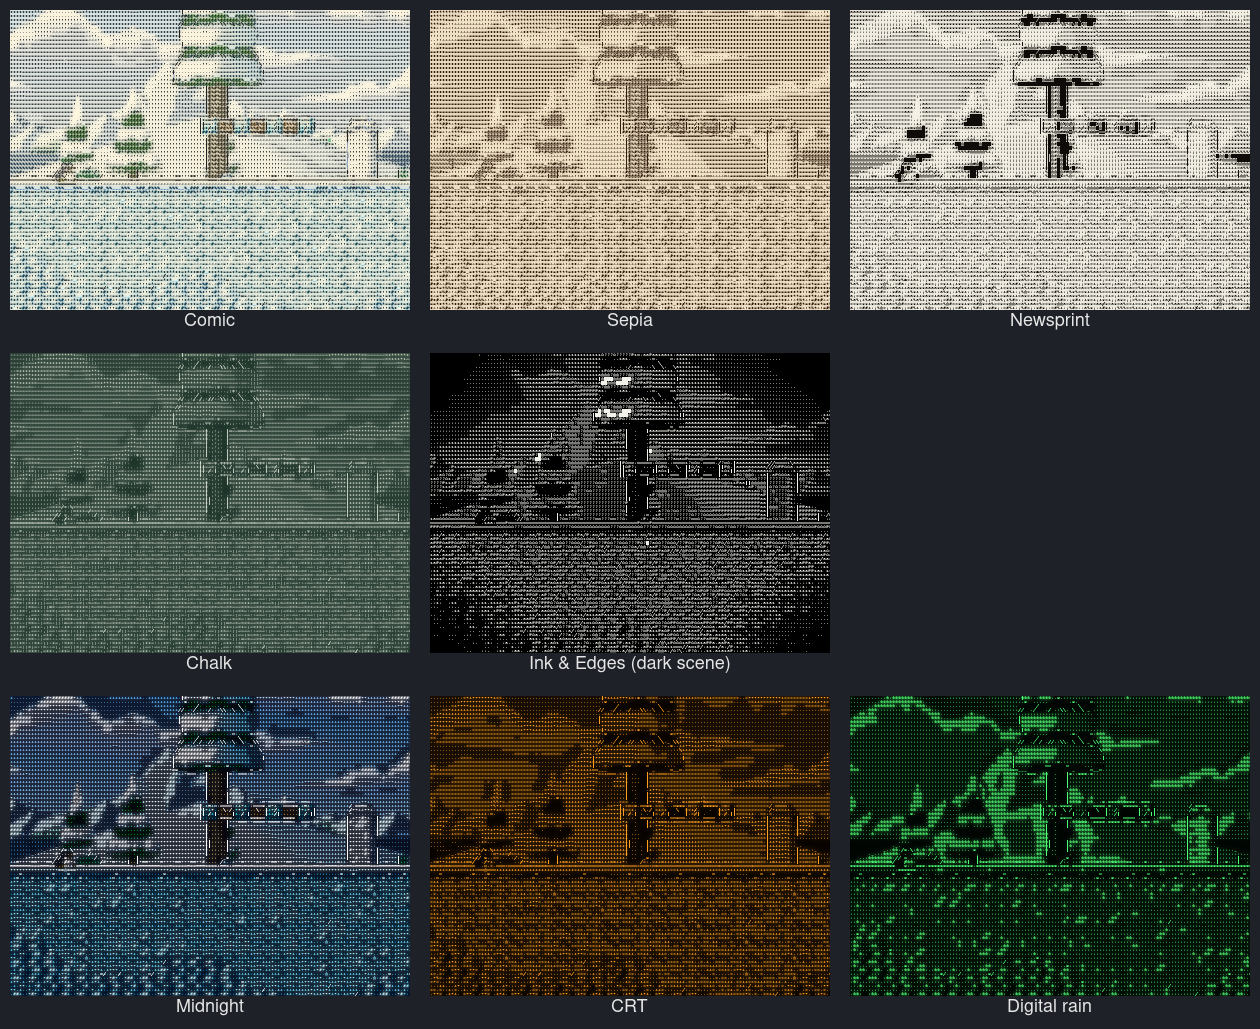
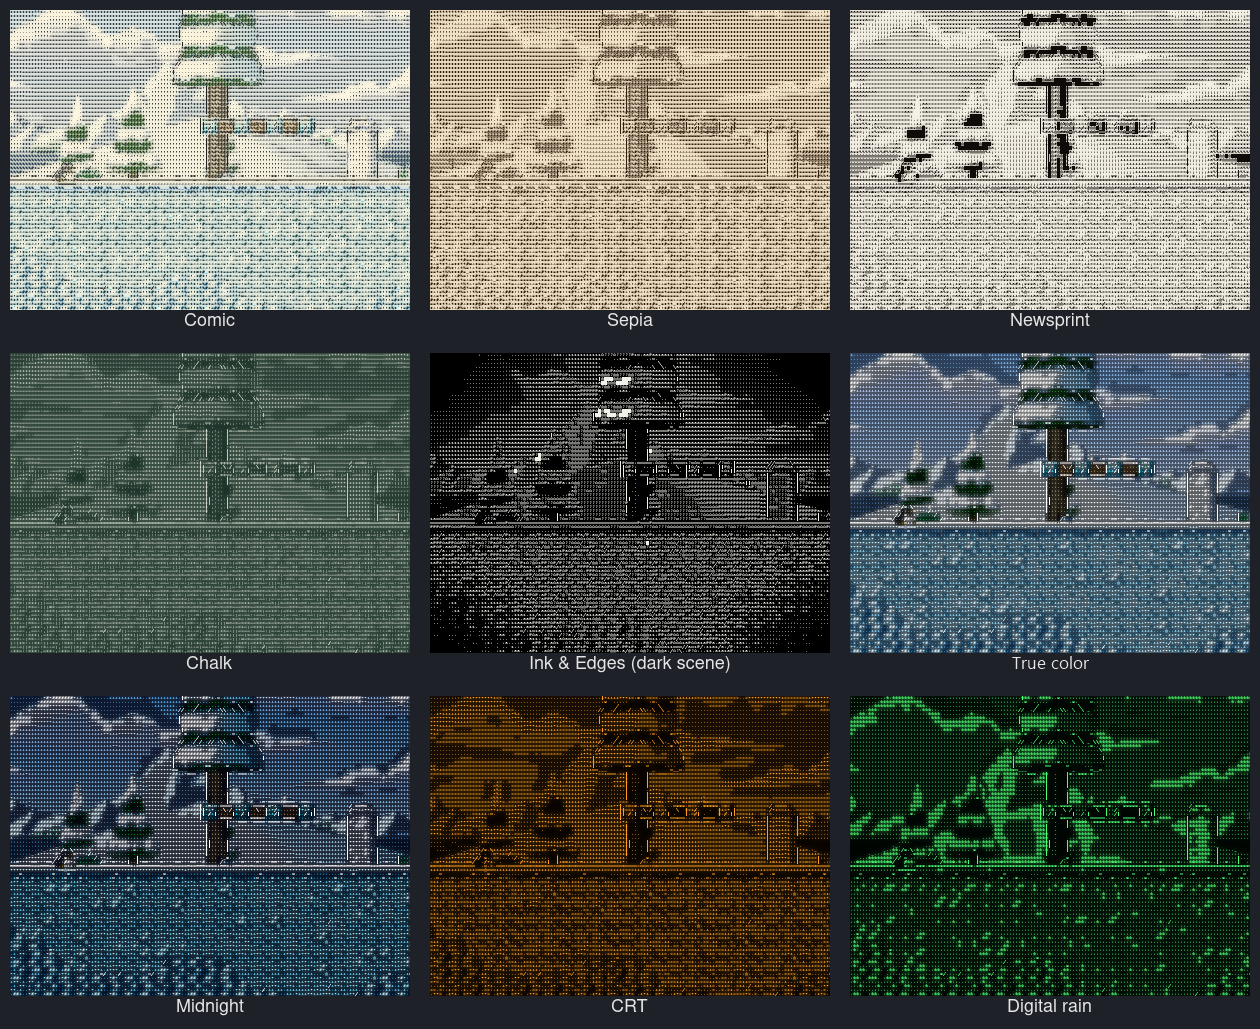
feat: True color, an included style in the game's own colors (detail at depth, step 6)

Changed region(s): [[0.65, 0.3421, 1.0, 0.6531]]

diff --git a/src/config/builtin_presets.cpp b/src/config/builtin_presets.cpp
@@ -8,11 +8,12 @@
 #include "midnight.hpp"
 #include "newsprint.hpp"
 #include "sepia.hpp"
+#include "true_color.hpp"
 
 namespace glyphshift {
 std::span<const BuiltinPreset> builtin_presets() noexcept {
     // Light-paper styles first, then dark-paper styles.
-    static constexpr std::array<BuiltinPreset, 8> styles{{
+    static constexpr std::array<BuiltinPreset, 9> styles{{
         {"art-comic",
             "Comic",
             "Bold scene-colored inks over a vivid watercolor wash.",
@@ -30,6 +31,10 @@ std::span<const BuiltinPreset> builtin_presets() noexcept {
             "Ink & Edges",
             "Crisp white letters and line art on black; made for dark games.",
             included::ink_edges},
+        {"art-true-color",
+            "True color",
+            "The game's own colors, drawn in ASCII on a dark wash of the scene.",
+            included::true_color},
         {"art-midnight",
             "Midnight",
             "Terminal ASCII in saturated scene colors on a near-black sky.",

diff --git a/tests/unit/presets_test.cpp b/tests/unit/presets_test.cpp
@@ -117,9 +117,9 @@ int main(int argc, char** argv) {
         PresetStore first(path, "game-a"), other(path, "game-b");
         std::string error;
         Settings actual;
-        check(builtin_presets().size() == 8 && !builtin_preset("not-included") &&
+        check(builtin_presets().size() == 9 && !builtin_preset("not-included") &&
                   !builtin_preset("art-blueprint"),
-            "eight included styles with explicit lookup");
+            "nine included styles with explicit lookup");
         for (const auto& preset : builtin_presets()) {
             check(first.load(preset.name, actual, error) && error.empty(),
                 "included styles load without installed files");

diff --git a/tests/smoke/editor_apps.py b/tests/smoke/editor_apps.py
@@ -151,7 +151,7 @@ def main():
                     time.sleep(.35)
                     assert (profile_dir / 'active').read_text() == expected + '\n', (expected, (profile_dir / 'active').read_text())
                 names = ['art-comic', 'art-sepia', 'art-newsprint', 'art-chalk', 'art-ink-edges',
-                         'art-midnight', 'art-crt', 'art-digital-rain']
+                         'art-true-color', 'art-midnight', 'art-crt', 'art-digital-rain']
                 seen = []
                 for index, name in enumerate(names, 1):
                     choose(index, name)

diff --git a/tests/smoke/editor_apps_win32.py b/tests/smoke/editor_apps_win32.py
@@ -133,7 +133,7 @@ try:
     profile_dir = out / 'config/glyphshift/profiles' / ('editor-' + app)
     if args.presets:
         names = ['art-comic', 'art-sepia', 'art-newsprint', 'art-chalk', 'art-ink-edges',
-                 'art-midnight', 'art-crt', 'art-digital-rain']
+                 'art-true-color', 'art-midnight', 'art-crt', 'art-digital-rain']
 
         def choose(position, expected):
             click(140, 95)

diff --git a/presets/README.md b/presets/README.md
@@ -15,11 +15,12 @@ dark-paper styles.
 | [art-newsprint.conf](art-newsprint.conf) | Black ink, warm white paper, letter shading and ASCII outline silhouettes. | 6×8 | [Image](../docs/presets/art-newsprint.png) |
 | [art-chalk.conf](art-chalk.conf) | Chalk drawing on a dark green board. | 6×8 | [Image](../docs/presets/art-chalk.png) |
 | [art-ink-edges.conf](art-ink-edges.conf) | Crisp white letters and line art on black. | 6×8 | [Image](../docs/presets/art-ink-edges.png) |
+| [art-true-color.conf](art-true-color.conf) | The game's own colors, drawn in ASCII on a dark wash of the scene. | 6×8 | [Image](../docs/presets/art-true-color.png) |
 | [art-midnight.conf](art-midnight.conf) | Classic terminal ASCII in saturated scene colors on a near-black sky. | 6×8 | [Image](../docs/presets/art-midnight.png) |
 | [art-crt.conf](art-crt.conf) | Amber CRT phosphor letters with a warm glow. | 6×8 | [Image](../docs/presets/art-crt.png) |
 | [art-digital-rain.conf](art-digital-rain.conf) | Glowing green binary digits on black. | 6×8 | [Image](../docs/presets/art-digital-rain.png) |
 
-![Eight styles rendered from the SuperTux frame](../docs/presets/overview.png)
+![Nine styles rendered from the SuperTux frame](../docs/presets/overview.png)
 
 These are GPU previews of the same [captured frame](../docs/illustration-original.png),
 not live gameplay tests, rendered with **Local contrast** at its default of 0.5
@@ -30,7 +31,7 @@ synthetic stand-in for a dark game.
 Every style uses **Auto exposure**, which lifts dark scenes and tones bright
 ones down, small 6×8 cells for detail, and sensitive contours, so the same
 style works on a bright 2D game and a dark 3D one (they were tuned on SuperTux
-and on ELDEN RING). The dark-paper styles (Chalk, Ink & Edges,
+and on ELDEN RING). The dark-paper styles (Chalk, Ink & Edges, True color,
 Midnight, CRT, Digital rain) suit dark 3D games best. The light-paper styles
 (Comic, Sepia, Newsprint) are at their best in bright games; in a dark scene
 most cells take ink and the drawing turns dense. For larger, easier-to-read
@@ -39,7 +40,7 @@ characters, raise the cell size in the editor.
 ## Choose directly in the overlay
 
 Restart the application through the rebuilt launcher to load the updated shared
-libraries. Press **Insert**, open **Preset**, and choose any of the eight names
+libraries. Press **Insert**, open **Preset**, and choose any of the nine names
 under **Included styles**. The running scene updates immediately; hover a name
 for a short description. Your own saved presets appear under **Saved presets**.
 No file copying or additional installation is required. Press **F10** for the

diff --git a/README.md b/README.md
@@ -29,7 +29,7 @@ text. GlyphShift takes neither route.
 | Attaching | Installed before the game starts. | A hotkey over a game that is already running; another press detaches it. |
 | Characters | A short built-in brightness ramp. | Real glyphs rasterized from any installed TTF/OTF font: ASCII, blocks, Braille or up to 256 Unicode characters of your choice, each kept at its typographic place. |
 | Which character goes where | By brightness. | By shape: each cell's 4×4 light/dark layout is matched against the font's glyphs, and real outlines become `/ \ \| _ -` strokes, so silhouettes survive. |
-| Color | Usually monochrome or the scene's color. | Art direction: scene-colored ink on dark or light paper, a watercolor wash, glow and ink bleed, eight ready styles. |
+| Color | Usually monochrome or the scene's color. | Art direction: scene-colored ink on dark or light paper, a watercolor wash, glow and ink bleed, nine ready styles including one in the game's own colors. |
 | Motion | Glyphs flicker as noise and light change. | Temporal stability keeps a cell's glyph while it still fits; an optional grid anchored to the world travels with a scrolling camera. |
 | Editing | Configuration files or the injected menu. | An editor over the game (Insert), saved per game; F10 compares with the original. |
 
@@ -297,7 +297,7 @@ SuperTux through Proton, attached with the hotkey.
 ## Choose a starting style
 
 Try the [ready-to-use style collection](presets/README.md): Comic, Sepia,
-Newsprint, Chalk, Ink & Edges, Midnight, CRT and Digital rain. Each
+Newsprint, Chalk, Ink & Edges, True color, Midnight, CRT and Digital rain. Each
 one redraws the whole scene in glyphs; the gallery compares them and explains
 how to switch them live without restarting.
 They are available directly under **Insert → Preset → Included styles**. Choose

diff --git a/docs/implementation/README.md b/docs/implementation/README.md
@@ -409,6 +409,22 @@ overlay, editor and oracle phases passed on Release. Not verified: the
 focused editor driver with `--presets` (real input; its style list changed),
 and the styles live.
 
+**Step 6, True color (2026-10-23).** At the user's request, an included style
+that keeps the game's own colors: `art-true-color.conf`, listed after Ink &
+Edges. It is Midnight's recipe (source color, `"  .:-+*#%@"`, automatic
+exposure, the step 5 contours) with saturation 1.1 instead of 1.9, white ink
+as the brightness cap and black paper washed with the scene's color
+(`scene_paper` 0.3). Three washes were compared on both games: 0 (black
+paper) turned the glyphs nearly white and lost the colors; 0.5 let color
+dominate and the characters fade; 0.3 kept ELDEN RING's red embers and gold
+cape and SuperTux's sky, tree and blocks recognizable while the ASCII still
+reads. The presets test expects nine styles again; both focused editor
+scripts list it. Its gallery image fills the overview tile Blueprint left,
+with the label drawn by System.Drawing (Segoe UI, the labels' color).
+Verification: both presets built, 12/12 CTest tests each, format check, and
+the smoke's overlay and editor phases passed on Release. Not verified: live
+in the games.
+
 ### Windows distribution (requested 2026-10-22)
 
 Today only people who build from source can use GlyphShift. The plan, waiting
